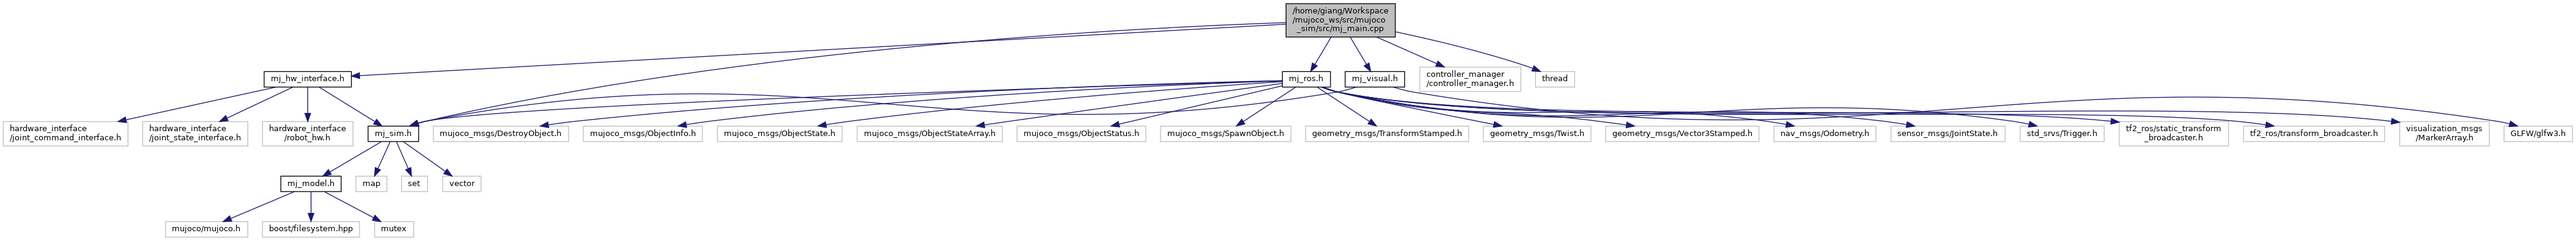
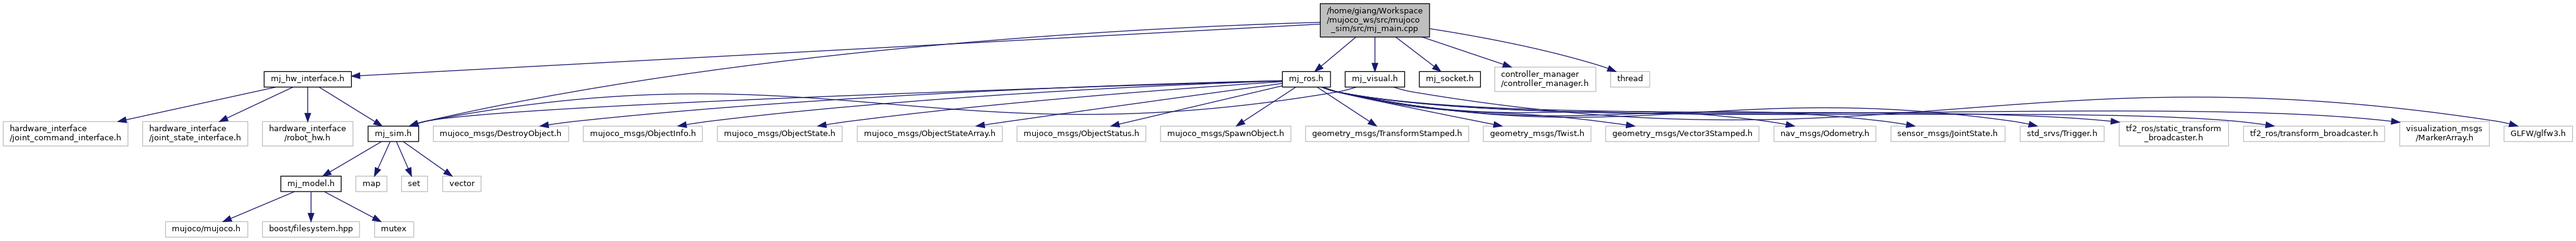
Add mj_socket

diff --git a/src/mujoco_sim/mj_socket.cpp b/src/mujoco_sim/mj_socket.cpp
@@ -1,0 +1,223 @@
+// Copyright (c) 2022, Hoang Giang Nguyen - Institute for Artificial Intelligence, University Bremen
+
+// Permission is hereby granted, free of charge, to any person obtaining a copy
+// of this software and associated documentation files (the "Software"), to deal
+// in the Software without restriction, including without limitation the rights
+// to use, copy, modify, merge, publish, distribute, sublicense, and/or sell
+// copies of the Software, and to permit persons to whom the Software is
+// furnished to do so, subject to the following conditions:
+
+// The above copyright notice and this permission notice shall be included in all
+// copies or substantial portions of the Software.
+
+// THE SOFTWARE IS PROVIDED "AS IS", WITHOUT WARRANTY OF ANY KIND, EXPRESS OR
+// IMPLIED, INCLUDING BUT NOT LIMITED TO THE WARRANTIES OF MERCHANTABILITY,
+// FITNESS FOR A PARTICULAR PURPOSE AND NONINFRINGEMENT. IN NO EVENT SHALL THE
+// AUTHORS OR COPYRIGHT HOLDERS BE LIABLE FOR ANY CLAIM, DAMAGES OR OTHER
+// LIABILITY, WHETHER IN AN ACTION OF CONTRACT, TORT OR OTHERWISE, ARISING FROM,
+// OUT OF OR IN CONNECTION WITH THE SOFTWARE OR THE USE OR OTHER DEALINGS IN THE
+// SOFTWARE.
+
+#include "mj_socket.h"
+#include "mj_model.h"
+
+#include <ros/ros.h>
+
+#include <stdio.h>
+#include <stdlib.h>
+#include <string>
+#include <sys/socket.h>
+#include <sys/un.h>
+#include <unistd.h>
+
+#include <chrono>
+#include <ctime>
+
+#include <jsoncpp/json/json.h>
+
+#include <thread>
+
+sockaddr_un addr;
+
+char buffer[BUFFER_SIZE];
+
+std::string socket_name = SOCKET_NAME;
+
+int connection_socket = 0;
+
+fd_set rfds;
+int monitored_fds[MAX_CLIENT_SUPPORTED] = {0};
+
+std::vector<std::thread> threads;
+
+void send_msg_thread(int data_socket)
+{
+    Json::Value data_json;
+    data_json["header"]["seq"] = 0;
+    data_json["header"]["frame_id"] = "mujoco";
+    while (ros::ok())
+    {
+        auto now = std::chrono::system_clock::now().time_since_epoch();
+        long int now_int = std::chrono::duration_cast<std::chrono::nanoseconds>(now).count();
+        int now_nsecs = now_int % 1000000000;
+        int now_secs = now_int / 1000000000;
+        data_json["header"]["seq"] = data_json["header"]["seq"].asInt() + 1;
+        data_json["header"]["stamp"]["secs"] = now_secs;
+        data_json["header"]["stamp"]["nsecs"] = now_nsecs;
+
+        for (int i = 0; i < (m->nbody / 10) + 1; i++)
+        {
+            data_json["body"].clear();
+            for (int body_id = i * 10; body_id < (i + 1) * 10 && body_id < m->nbody; body_id++)
+            {
+                const char *name =  mj_id2name(m, mjOBJ_BODY, body_id);
+                data_json["body"][name]["position"].append(d->xpos[3 * body_id]);
+                data_json["body"][name]["position"].append(d->xpos[3 * body_id + 1]);
+                data_json["body"][name]["position"].append(d->xpos[3 * body_id + 2]);
+                data_json["body"][name]["quaternion"].append(d->xquat[4 * body_id]);
+                data_json["body"][name]["quaternion"].append(d->xquat[4 * body_id + 1]);
+                data_json["body"][name]["quaternion"].append(d->xquat[4 * body_id + 2]);
+                data_json["body"][name]["quaternion"].append(d->xquat[4 * body_id + 3]);
+            }
+
+            std::string data_str = data_json.toStyledString();
+            ROS_INFO("Data size: %ld byte", data_str.size());
+            if (data_str.size() > BUFFER_SIZE)
+            {
+                ROS_WARN("Data too big (%ld byte)", data_str.size());
+            }
+            
+            if (write(data_socket, data_str.data(), BUFFER_SIZE) == -1)
+            {
+                return;
+            }
+        }
+        usleep(1000000);
+    }
+}
+
+void start_socket()
+{
+    socket_name += "joint_state";
+    unlink(socket_name.c_str());
+
+    /* Create Master socket. */
+    connection_socket = socket(AF_UNIX, SOCK_STREAM, 0);
+    if (connection_socket == -1)
+    {
+        ROS_ERROR("socket() call failed");
+        return;
+    }
+    ROS_INFO("Master socket %d created", connection_socket);
+
+    /* Specify the socket Credentials */
+    memset(&addr, 0, sizeof(struct sockaddr_un)); // Initializes the data to 0
+    addr.sun_family = AF_UNIX;
+    strncpy(addr.sun_path, socket_name.c_str(), sizeof(addr.sun_path) - 1);
+
+    /* Bind socket to socket name.*/
+    if (bind(connection_socket, (const struct sockaddr *)&addr,
+             sizeof(struct sockaddr_un)) == -1)
+    {
+        ROS_ERROR("bind() call failed");
+        return;
+    }
+    ROS_INFO("bind() call succeed");
+
+    if (listen(connection_socket, 10) == -1)
+    {
+        ROS_ERROR("listen() call failed");
+        return;
+    }
+    ROS_INFO("listen() call succeed");
+
+    for (int &monitored_fd : monitored_fds)
+    {
+        monitored_fd = -1;
+    }
+
+    monitored_fds[0] = connection_socket;
+}
+
+void run_socket()
+{
+    /* This is the main loop for handling connections. */
+    while (ros::ok())
+    {
+        FD_ZERO(&rfds);
+        for (int monitored_fd : monitored_fds)
+        {
+            if (monitored_fd != -1)
+            {
+                FD_SET(monitored_fd, &rfds);
+            }
+        }
+
+        timeval time_out{1, 0};
+        int ret = select(FD_SETSIZE, &rfds, NULL, NULL, &time_out);
+        if (ret == -1)
+        {
+            ROS_ERROR("select() call failed");
+            return;
+        }
+
+        if (ret == 0)
+        {
+            continue;
+        }
+
+        if (FD_ISSET(connection_socket, &rfds))
+        {
+            int data_socket = accept(connection_socket, NULL, NULL);
+            if (data_socket == -1)
+            {
+                ROS_ERROR("accept() call failed");
+                return;
+            }
+
+            for (int &monitored_fd : monitored_fds)
+            {
+                if (monitored_fd == -1)
+                {
+                    monitored_fd = data_socket;
+                    break;
+                }
+            }
+
+            threads.push_back(std::thread(&send_msg_thread, data_socket));
+            ROS_INFO("Open new connection, number of connections: %ld", threads.size());
+        }
+        else
+        {
+            /* Find the client which has send the data request */
+            for (int i = 1; i < MAX_CLIENT_SUPPORTED; i++)
+            {
+                if (FD_ISSET(monitored_fds[i], &rfds))
+                {
+                    close(monitored_fds[i]);
+                    monitored_fds[i] = -1;
+                    threads[i - 1].join();
+                    threads.erase(threads.begin() + i - 1);
+                    ROS_INFO("Close connection %d, number of connections: %ld", i, threads.size());
+                }
+            }
+        }
+    }
+}
+
+void close_socket()
+{
+    for (size_t i = 0; i < threads.size(); i++)
+    {
+        threads[i].join();
+        threads.erase(threads.begin() + i);
+        printf("Close connection %ld, number of connections: %ld\n", i, threads.size());
+    }
+
+    /*close the master socket*/
+    close(connection_socket);
+    printf("Connection closed..\n");
+
+    /* Server should release resources before getting terminated. */
+    unlink(socket_name.c_str());
+}

diff --git a/include/mujoco_sim/mj_socket.h b/include/mujoco_sim/mj_socket.h
@@ -1,0 +1,33 @@
+// Copyright (c) 2022, Hoang Giang Nguyen - Institute for Artificial Intelligence, University Bremen
+
+// Permission is hereby granted, free of charge, to any person obtaining a copy
+// of this software and associated documentation files (the "Software"), to deal
+// in the Software without restriction, including without limitation the rights
+// to use, copy, modify, merge, publish, distribute, sublicense, and/or sell
+// copies of the Software, and to permit persons to whom the Software is
+// furnished to do so, subject to the following conditions:
+
+// The above copyright notice and this permission notice shall be included in all
+// copies or substantial portions of the Software.
+
+// THE SOFTWARE IS PROVIDED "AS IS", WITHOUT WARRANTY OF ANY KIND, EXPRESS OR
+// IMPLIED, INCLUDING BUT NOT LIMITED TO THE WARRANTIES OF MERCHANTABILITY,
+// FITNESS FOR A PARTICULAR PURPOSE AND NONINFRINGEMENT. IN NO EVENT SHALL THE
+// AUTHORS OR COPYRIGHT HOLDERS BE LIABLE FOR ANY CLAIM, DAMAGES OR OTHER
+// LIABILITY, WHETHER IN AN ACTION OF CONTRACT, TORT OR OTHERWISE, ARISING FROM,
+// OUT OF OR IN CONNECTION WITH THE SOFTWARE OR THE USE OR OTHER DEALINGS IN THE
+// SOFTWARE.
+
+#pragma once
+
+#define SOCKET_NAME "/tmp/"
+#define BUFFER_SIZE 8192
+#define MAX_CLIENT_SUPPORTED 16
+
+void send_msg_thread(int data_socket);
+
+void start_socket();
+
+void run_socket();
+
+void close_socket();

diff --git a/src/mj_main.cpp b/src/mj_main.cpp
@@ -24,6 +24,7 @@
 #endif
 #include "mj_hw_interface.h"
 #include "mj_ros.h"
+#include "mj_socket.h"
 
 #include <controller_manager/controller_manager.h>
 #include <thread>
@@ -197,7 +198,11 @@ int main(int argc, char **argv)
     // start simulation thread
     std::thread sim_thread(simulate);
 
+    start_socket();
+
     mjtNum sim_step_start = d->time;
+
+    std::thread socket_thread(run_socket);
 
 #ifdef VISUAL
     while (ros::ok())
@@ -222,6 +227,9 @@ int main(int argc, char **argv)
     ros_thread2.join();
     ros_thread3.join();
     sim_thread.join();
+    socket_thread.join();
+
+    close_socket();
 
     // free MuJoCo model and data, deactivate
     mj_deleteData(d);
